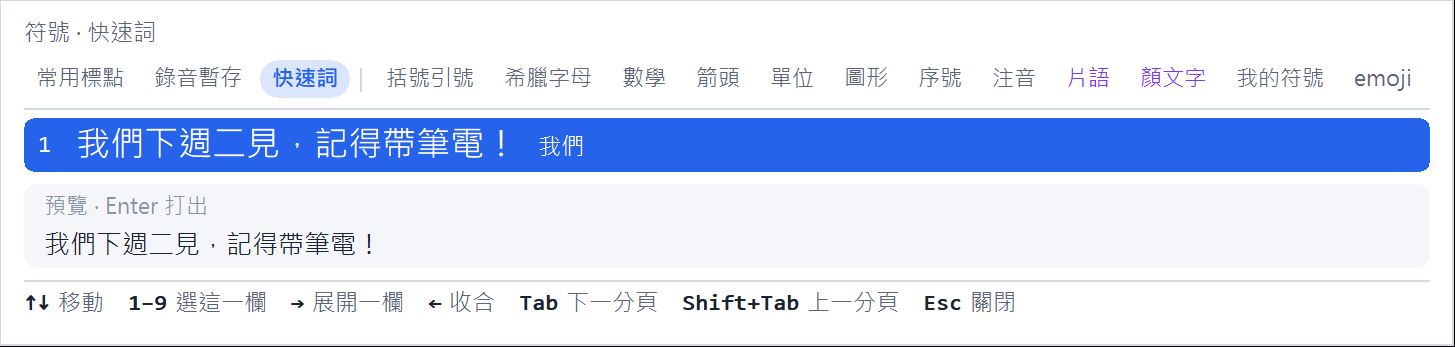
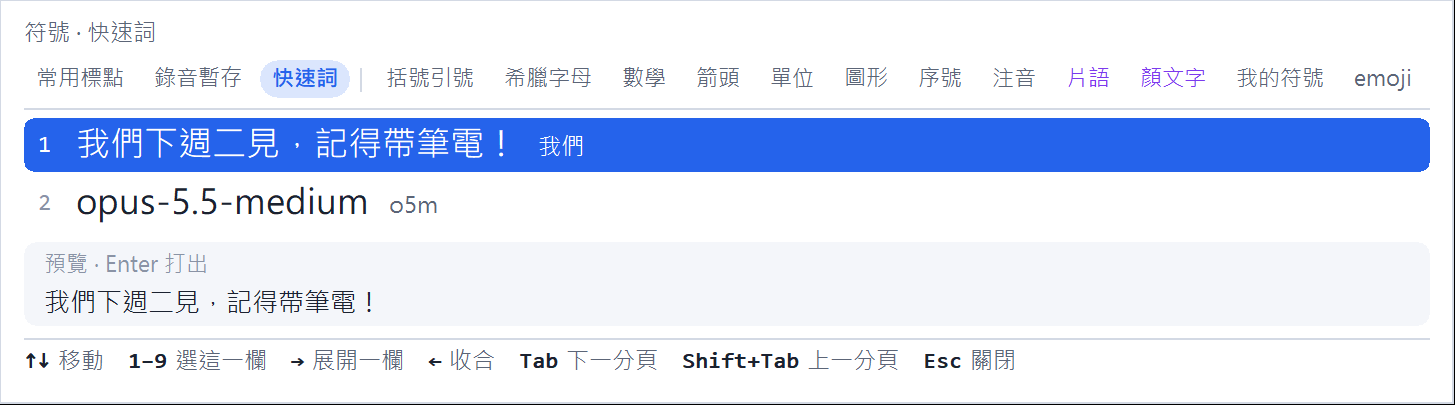
docs(images): 快速詞的新圖：略過旁邊的快速詞、打開頭的建議、設定頁的快速詞卡
新推廣頁要介紹快速詞（使用者要求設定頁那一塊也放進去），圖照規矩用程式產生：
- typing-quick-dropped（o5m：略過 o 和快速詞並排）、typing-quick-prefix（我opu → opus-5.5-medium）
- settings-quick-words：設定頁一張卡。headless Edge 截捲動過的頁面是一片空白，
  所以改成截很高的整頁，再沿著卡片左邊框找出第 N 張卡裁下來（SETTINGS_CARDS）。
範例資料多一筆 o5m → opus-5.5-medium（文件圖與設定頁截圖都有），quick-tab.png 因此多一列。

diff --git a/tools/make_docs_images.py b/tools/make_docs_images.py
@@ -45,8 +45,13 @@ PANELS = [
     ("voice-recent", "{RCTRL}{TAB}", "candidates"),          # 錄音暫存
     ("quick-tab", "{RCTRL}{TAB}{TAB}", "candidates"),        # 快速詞, also when nothing is typed
     ("typing-composing", "ji3m06ok", "hint"),                # ● Enter 送出: not sent yet
+    ("typing-quick-dropped", "o5m", "hint"),                 # 略過 o and the 快速詞 o5m, side by side
+    ("typing-quick-prefix", "ji3opu", "hint"),               # the start of a 快速詞's text offers the rest
 ]
 SETTINGS_VIEWS = ["general", "dict", "punct", "practice", "about"]
+# One card (.group) of a settings page, cut out of a tall shot of it:
+# file name -> (page, which card from the top, 0-based)
+SETTINGS_CARDS = {"settings-quick-words": ("snippets", 2)}  # 新增片語, 我的片語, 快速詞, ...
 
 
 def render_panels(out: Path, scale: float, themes) -> list[Path]:
@@ -68,6 +73,7 @@ def render_panels(out: Path, scale: float, themes) -> list[Path]:
         engine.lexicon.user.add_snippet("感謝您的來信！我們已經收到，會在兩個工作天內回覆您。", "", "thanks")
         # a 快速詞 and a phrase of mine, so the two-row suggestion strip shows
         engine.lexicon.user.add_quick_word("我們", "我們下週二見，記得帶筆電！")
+        engine.lexicon.user.add_quick_word("o5m", "opus-5.5-medium")
         engine.lexicon.user.add("我們的專案", "ㄨㄛˇ-ㄇㄣ˙-ㄉㄜ˙-ㄓㄨㄢ-ㄢˋ", "zh", "")
         engine.lexicon.invalidate()
         import time
@@ -109,7 +115,55 @@ def render_settings(out: Path, dark: bool) -> list[Path]:
             continue
         made.append(out / f"settings-{view}.png")
         print(" ", (out / f"settings-{view}.png").name)
+    for name, (view, index) in SETTINGS_CARDS.items():
+        path = _settings_card(out / f"{name}.png", view, index)
+        if path is not None:
+            made.append(path)
+            print(" ", path.name)
     return made
+
+
+CARD_EDGE = (214, 219, 229)  # a .group's border (--line, light theme)
+
+
+def _settings_card(path: Path, view: str, index: int) -> Path | None:
+    """Shoot the whole page (tall window, nothing scrolled: a scrolled page
+    comes out blank in headless Edge), then cut out the index-th card by
+    following its left border down the page."""
+    from PIL import Image
+
+    with tempfile.TemporaryDirectory() as tmp:
+        cmd = [sys.executable, "-m", "smartime.devtools.settings_shot", tmp, "--view", view, "--height", "4000"]
+        r = subprocess.run(cmd, cwd=ROOT, capture_output=True, text=True, encoding="utf-8", errors="replace",
+                           env={**os.environ, "PYTHONPATH": str(ROOT / "src")})
+        if r.returncode != 0:
+            print(f"  ! {path.name}: {r.stderr.strip().splitlines()[-1:] or r.stdout.strip()}", file=sys.stderr)
+            return None
+        im = Image.open(Path(tmp) / f"settings-{view}.png").convert("RGB")
+        im.load()
+    # the cards' left edge: the first border-coloured column right of the rail
+    y_probe = im.height // 3
+    left = next((x for x in range(300, 400) if im.getpixel((x, y_probe)) == CARD_EDGE), None)
+    if left is None:
+        print(f"  ! {path.name}: no card edge found", file=sys.stderr)
+        return None
+    runs, start = [], None
+    for y in range(im.height):
+        edge = im.getpixel((left, y)) == CARD_EDGE
+        if edge and start is None:
+            start = y
+        elif not edge and start is not None:
+            if y - start > 20:
+                runs.append((start, y))
+            start = None
+    if index >= len(runs):
+        print(f"  ! {path.name}: only {len(runs)} cards on {view}", file=sys.stderr)
+        return None
+    top, bottom = runs[index]
+    right = next(x for x in range(im.width - 1, left, -1) if im.getpixel((x, (top + bottom) // 2)) == CARD_EDGE)
+    pad = 14  # past the rounded corners, onto the page around the card
+    im.crop((left - pad, top - pad, right + pad + 1, bottom + pad)).save(path)
+    return path
 
 
 def main() -> int:

diff --git a/src/smartime/devtools/settings_shot.py b/src/smartime/devtools/settings_shot.py
@@ -77,6 +77,7 @@ def sample_data(app) -> None:
     for r, n in zip(rows, [6, 14, 0, 3, 9, 1, 0, 22, 0, 2, 0, 5, 1]):
         for _ in range(n):
             u.used_snippet(r["id"])
+    u.add_quick_word("o5m", "opus-5.5-medium")
     u.add_quick_word("art", "artifact")
     u.add_quick_word("順", "順打輸入法好棒 !!")
     u.add_quick_word("addr", snippet_id=rows[0]["id"])
